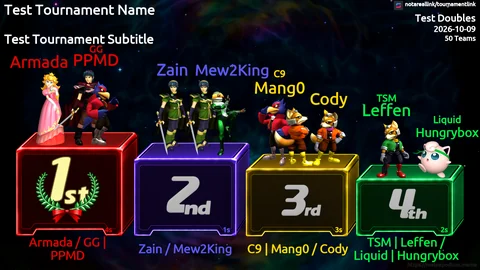
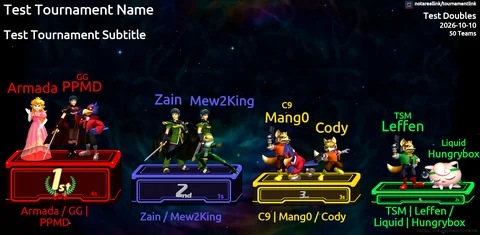
replacing one of the quick picks to use the customizable podium and show that off

diff --git a/frontend/src/LoadStep.tsx b/frontend/src/LoadStep.tsx
@@ -93,7 +93,7 @@ export default function LoadStep({ user, hasLoadedFormat, onChange, onSignIn, on
         setSelectedId("");
         setMessageIsError(false);
         setMessage(`Loaded ${pick.name}. Bracket Import is ready when you are.`);
-      }}><img src={`${import.meta.env.BASE_URL}quick_pick_thumbnails/${pick.id}.webp`} alt={`${pick.mode === "podium" ? "Legacy Podium" : "Squares"} ${pick.event_format} Top ${pick.entrant_count} example`} loading="lazy" /><strong>{pick.name}</strong><span>{pick.mode === "podium" ? "Legacy Podiums" : "Squares"} · {pick.event_format === "singles" ? "Singles" : "Doubles"} · Top {pick.entrant_count}</span></button>)}</div>
+      }}><img src={`${import.meta.env.BASE_URL}quick_pick_thumbnails/${pick.id}.webp`} alt={`${pick.mode === "podium" ? (pick.podium_style === "customizable" ? "Customizable Podium" : "Legacy Podium") : "Squares"} ${pick.event_format} Top ${pick.entrant_count} example`} loading="lazy" /><strong>{pick.name}</strong><span>{pick.mode === "podium" ? (pick.podium_style === "customizable" ? "Customizable Podiums" : "Legacy Podiums") : "Squares"} · {pick.event_format === "singles" ? "Singles" : "Doubles"} · Top {pick.entrant_count}</span></button>)}</div>
       {quickPickId && <button className="button button--dark" type="button" onClick={onProceedToBracket}>Continue to Bracket Import</button>}
     </section>
     {message && <p className="inline-message format-message" role={messageIsError ? "alert" : "status"}>{message}</p>}

diff --git a/frontend/src/quickPicks.ts b/frontend/src/quickPicks.ts
@@ -16,7 +16,7 @@ export function quickPickFormat(id: string): FormatConfiguration {
         event_format: pick.event_format,
         entrant_count: pick.entrant_count,
         variant: null,
-        podium_style: pick.mode === "podium" ? "legacy" : null,
+        podium_style: pick.podium_style ?? null,
       },
     },
     header_layout: { top_left: "tournament_title", top_middle: "tournament_logo", top_right: "metadata" },

diff --git a/frontend/src/Footer.tsx b/frontend/src/Footer.tsx
@@ -17,7 +17,7 @@ function Footer({ renderCount }: FooterProps) {
     <>
       <footer className="site-footer">
         <div>
-          V6.2 10/10/2026 
+          V6.3 10/10/2026 
           {" "}●{" "}
           {count} created
           {" "}●{" "}

diff --git a/generate_quick_pick_thumbnails.py b/generate_quick_pick_thumbnails.py
@@ -32,7 +32,7 @@ def generate_quick_pick_thumbnails() -> tuple[Path, ...]:
             for color in (controller_colors.color_for_slot(slot).resolve(),)
         )) if mode is CreationMode.SQUARES else None
         image = render_format_preview(
-            PodiumStyle.LEGACY,
+            PodiumStyle(pick.get("podium_style", "legacy")),
             TournamentFormat(pick["event_format"]),
             pick["entrant_count"],
             creation_mode=mode,

diff --git a/AGENTS.md b/AGENTS.md
@@ -30,7 +30,7 @@
 - The image maker uses six ordered steps: Load, Assets, Format, Bracket Import, Tournament, and Entrants. Users may return to any completed step but cannot open a later step until every prerequisite step is complete.
 - Load is an optional first step containing the signed-in user's saved-format selector and the JSON format-code importer. Saving and exporting remain at the bottom of Format. Loading happens before Assets so serialized font and background references can be restored and then reviewed in the asset selectors.
 - Load has an explicit `Skip loading` action, and both Assets and Format are immediately clickable from Load. Opening Format directly marks any bypassed optional steps as skipped; opening it from Assets marks only Assets as skipped. Assets starts with Tyrowo selected and may be skipped without choosing a logo or background.
-- Load includes four guest-accessible Quick Picks below Load a Previous Format: Legacy Podium Singles Top 8, Legacy Podium Doubles Top 4, Squares Singles Top 8 ("Just Give Me Top8er"), and Squares Doubles Top 4. Each uses centered-cover Battlefield, Ubuntu, controller/Smash Player Colors, and no logo, with its own rendered thumbnail. Selecting one loads editable format settings and immediately unlocks Bracket Import with an explicit continue action.
+- Load includes four guest-accessible Quick Picks below Load a Previous Format: Legacy Podium Singles Top 8, Customizable Podium Doubles Top 4, Squares Singles Top 8 ("Just Give Me Top8er"), and Squares Doubles Top 4. Each uses centered-cover Battlefield, Ubuntu, controller/Smash Player Colors, and no logo, with its own rendered thumbnail. Selecting one loads editable format settings and immediately unlocks Bracket Import with an explicit continue action.
 - Workflow tabs are state-colored: pink is the current step, blue is a completed optional step that was skipped without all selections, and green is a fully completed step.
 - Optional-step header actions say `Skip…` while untouched and change to a destination-specific `Proceed…` label after the user loads or imports content or makes a non-default asset selection. Required steps show a disabled `Cannot Skip` action in the same position until complete, then expose a destination-specific `Proceed…` action. Completion must also immediately unlock the next numbered workflow tab; pressing the header action is never required to advance.
 - Entrants is the final validation step. While incomplete, both its header action and the preview-panel primary action remain enabled and read `Finish filling out entrant information.`; activating either highlights every missing required entrant field in red and focuses the first one. Once complete, Step 6 is green even while active and both actions read `Download Full Resolution Image`, triggering the uncached exact render with the user's completed data, refreshing the visible preview, downloading the composited full-resolution PNG, and recording the download in the SQL counter.
